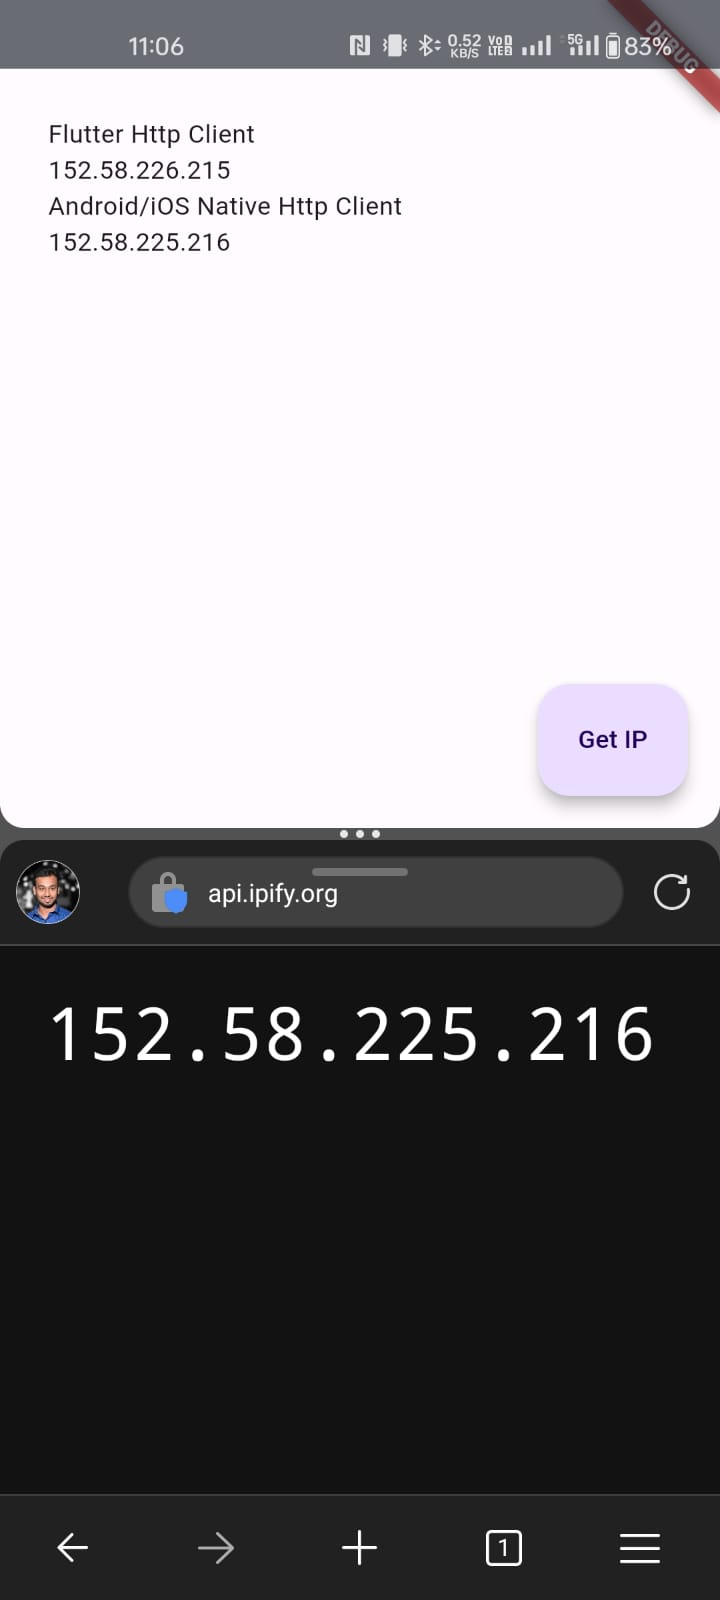
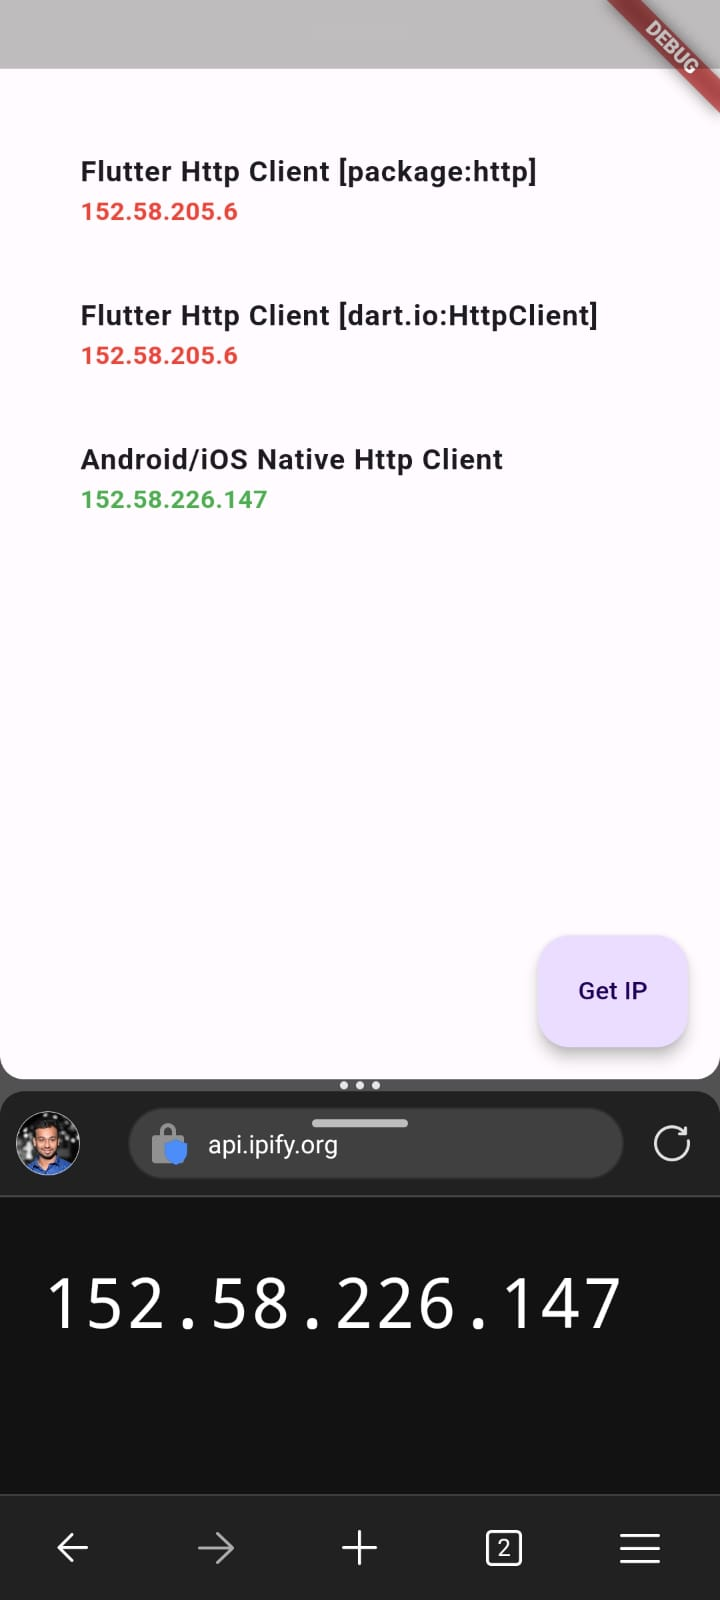
Screenshot updated

diff --git a/lib/main.dart b/lib/main.dart
@@ -1,3 +1,6 @@
+import 'dart:convert';
+import 'dart:io';
+
 import 'package:flutter/material.dart';
 import 'package:http/http.dart' as http;
 import 'package:http_client/http_client.dart';
@@ -15,9 +18,11 @@ class MainApp extends StatefulWidget {
 
 class _MainAppState extends State<MainApp> {
   final nativeClient = HttpNativeClient();
+  final dartIoHttpClient = HttpClient();
 
   final uri = Uri.parse("https://api.ipify.org");
   String flutterIp = "Click Get IP Button";
+  String flutterDartIoIp = "Click Get IP Button";
   String nativeIp = "Click Get IP Button";
 
   @override
@@ -28,12 +33,22 @@ class _MainAppState extends State<MainApp> {
           onPressed: () async {
             try {
               flutterIp = "Loading";
+              flutterDartIoIp = "Loading";
               nativeIp = "Loading";
               setState(() {});
+
+              //http package response
               final flutterIpResponse = await http.get(uri);
               flutterIp = flutterIpResponse.body;
               setState(() {});
 
+              //dart.io:HttpClient response
+              final request = await dartIoHttpClient.getUrl(uri);
+              final response = await request.close();
+              flutterDartIoIp = await response.transform(utf8.decoder).join();
+              setState(() {});
+
+              //native wrapper response
               final nativeIpResposne =
                   await nativeClient.getUrl("https://api.ipify.org");
               nativeIp = nativeIpResposne.body;
@@ -41,6 +56,7 @@ class _MainAppState extends State<MainApp> {
             } catch (e) {
               flutterIp = e.toString();
               nativeIp = e.toString();
+              flutterDartIoIp = e.toString();
               setState(() {});
             }
           },
@@ -52,10 +68,51 @@ class _MainAppState extends State<MainApp> {
             child: Column(
               crossAxisAlignment: CrossAxisAlignment.start,
               children: [
-                const Text("Flutter Http Client"),
-                Text(flutterIp),
-                const Text("Android/iOS Native Http Client"),
-                Text(nativeIp),
+                ListTile(
+                  title: const Text(
+                    "Flutter Http Client [package:http]",
+                    style: TextStyle(
+                      fontWeight: FontWeight.bold,
+                    ),
+                  ),
+                  subtitle: Text(
+                    flutterIp,
+                    style: const TextStyle(
+                      color: Colors.red,
+                      fontWeight: FontWeight.bold,
+                    ),
+                  ),
+                ),
+                ListTile(
+                  title: const Text(
+                    "Flutter Http Client [dart.io:HttpClient]",
+                    style: TextStyle(
+                      fontWeight: FontWeight.bold,
+                    ),
+                  ),
+                  subtitle: Text(
+                    flutterDartIoIp,
+                    style: const TextStyle(
+                      color: Colors.red,
+                      fontWeight: FontWeight.bold,
+                    ),
+                  ),
+                ),
+                ListTile(
+                  title: const Text(
+                    "Android/iOS Native Http Client",
+                    style: TextStyle(
+                      fontWeight: FontWeight.bold,
+                    ),
+                  ),
+                  subtitle: Text(
+                    nativeIp,
+                    style: const TextStyle(
+                      color: Colors.green,
+                      fontWeight: FontWeight.bold,
+                    ),
+                  ),
+                ),
                 const Spacer(),
               ],
             ),
